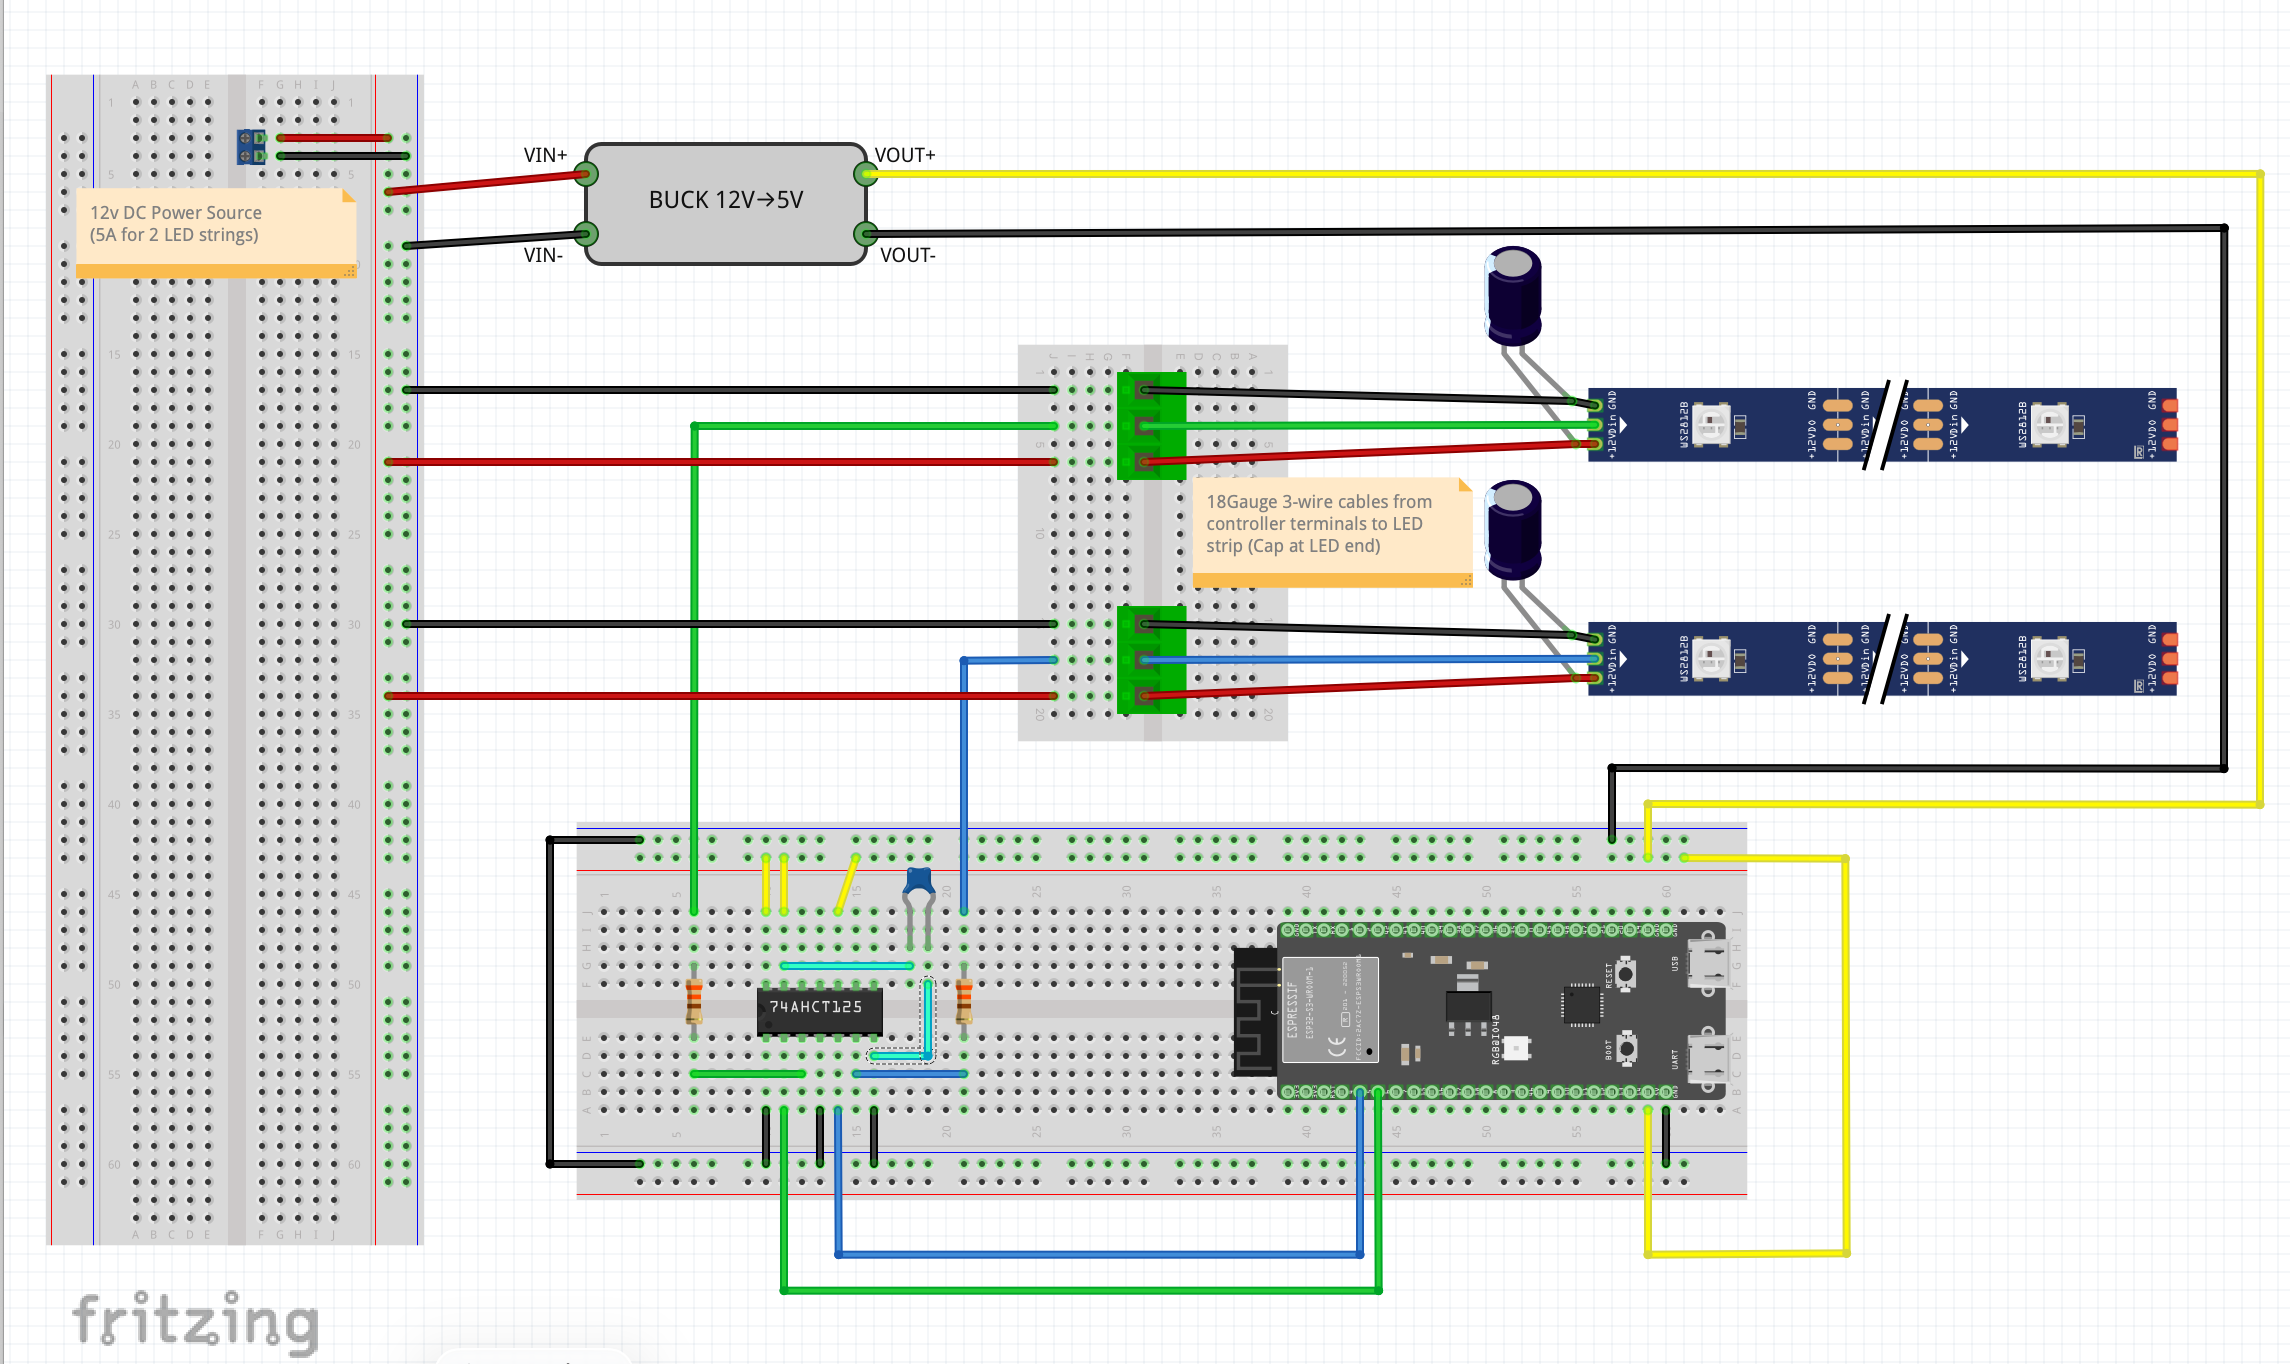
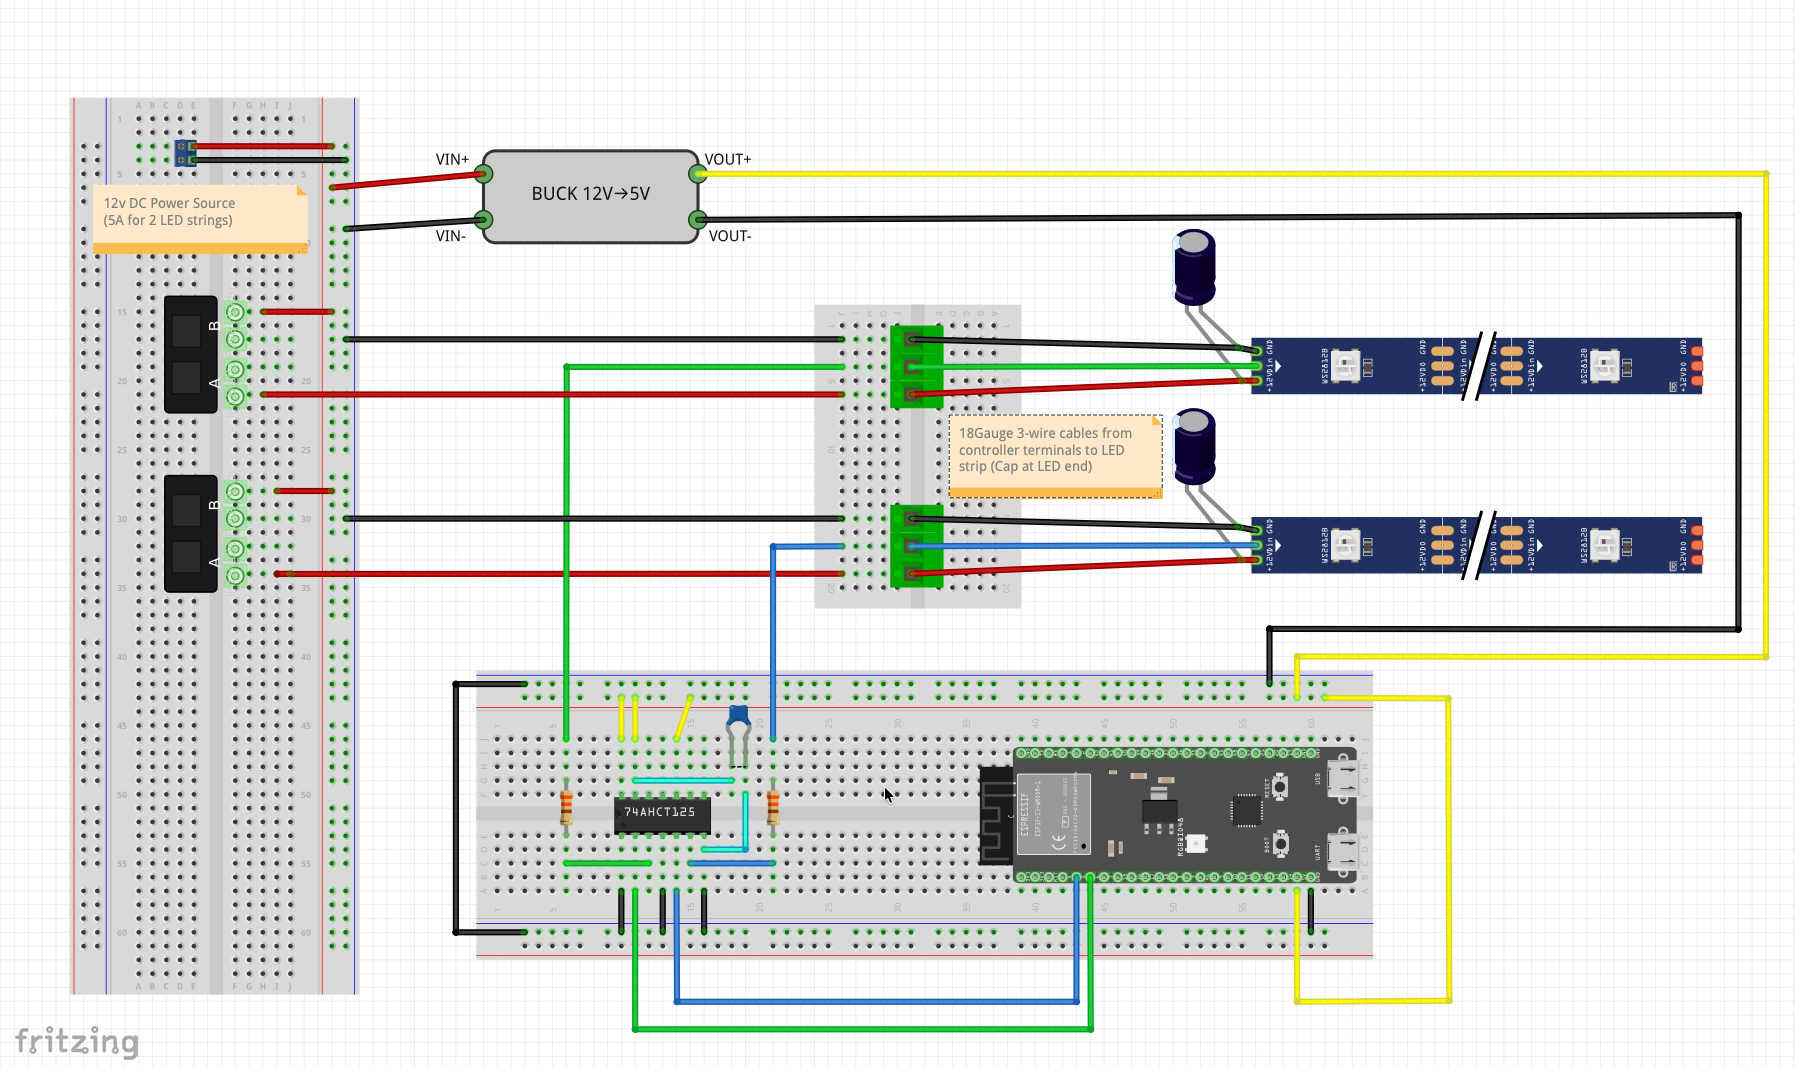
update with fuse parts and new images

diff --git a/_posts/2026-01-04-Outdoor.md b/_posts/2026-01-04-Outdoor.md
@@ -84,10 +84,9 @@ D1 mini driving a tiny LED strip.
 
 My exploratory
 [DIY approach](#diy-controller)
-works for my particular setup but lacks the robustness that comes with
-fuses or other protections against wiring mistakes, overloading the power,
-something accidentally shorting a string, etc.  I tried two different
-controllers, both of which will find a home in my system.
+works for my particular setup but lacks the robustness, engineering
+insights that come from building multiple generations, 
+and nifty features of the better commercial systems.
 
 ## IoTorero Addressable Strip Controller (w/ built-in microphone)  (WIP)
 
@@ -238,6 +237,15 @@ Besides the LED string(s) linked above, I used the following:
 * <a href="https://www.amazon.com/dp/B08R6BCSYC"
    target="_blank" rel="noopener noreferrer">Logic level shifter</a>
    (to boost 3.3 V to 5 V).
+* <a href="https://www.amazon.com/dp/B08GSG1FNV"
+   target="_blank" rel="noopener noreferrer">Mini-blade fuse holder</a>.
+   I wanted to stay small and the standard size blade fuses (like on the Dig-Quad
+   take up more space (and I could not find a nice compact holder like on the Dig-Quad).
+   I was tempted to go with glass cartridge fuses or a resettable fuse but
+   will try that next time.
+* <a href="https://www.amazon.com/dp/B0DS28JC77"
+   target="_blank" rel="noopener noreferrer">5 A mini-blade fuses</a>.
+   I chose 5 A fuses as that's what the Dig-Quad uses.
 
 And I dipped into my inventory for:
 * A 330 ohm resistor for each string directly connected to the board (I designed for two).
